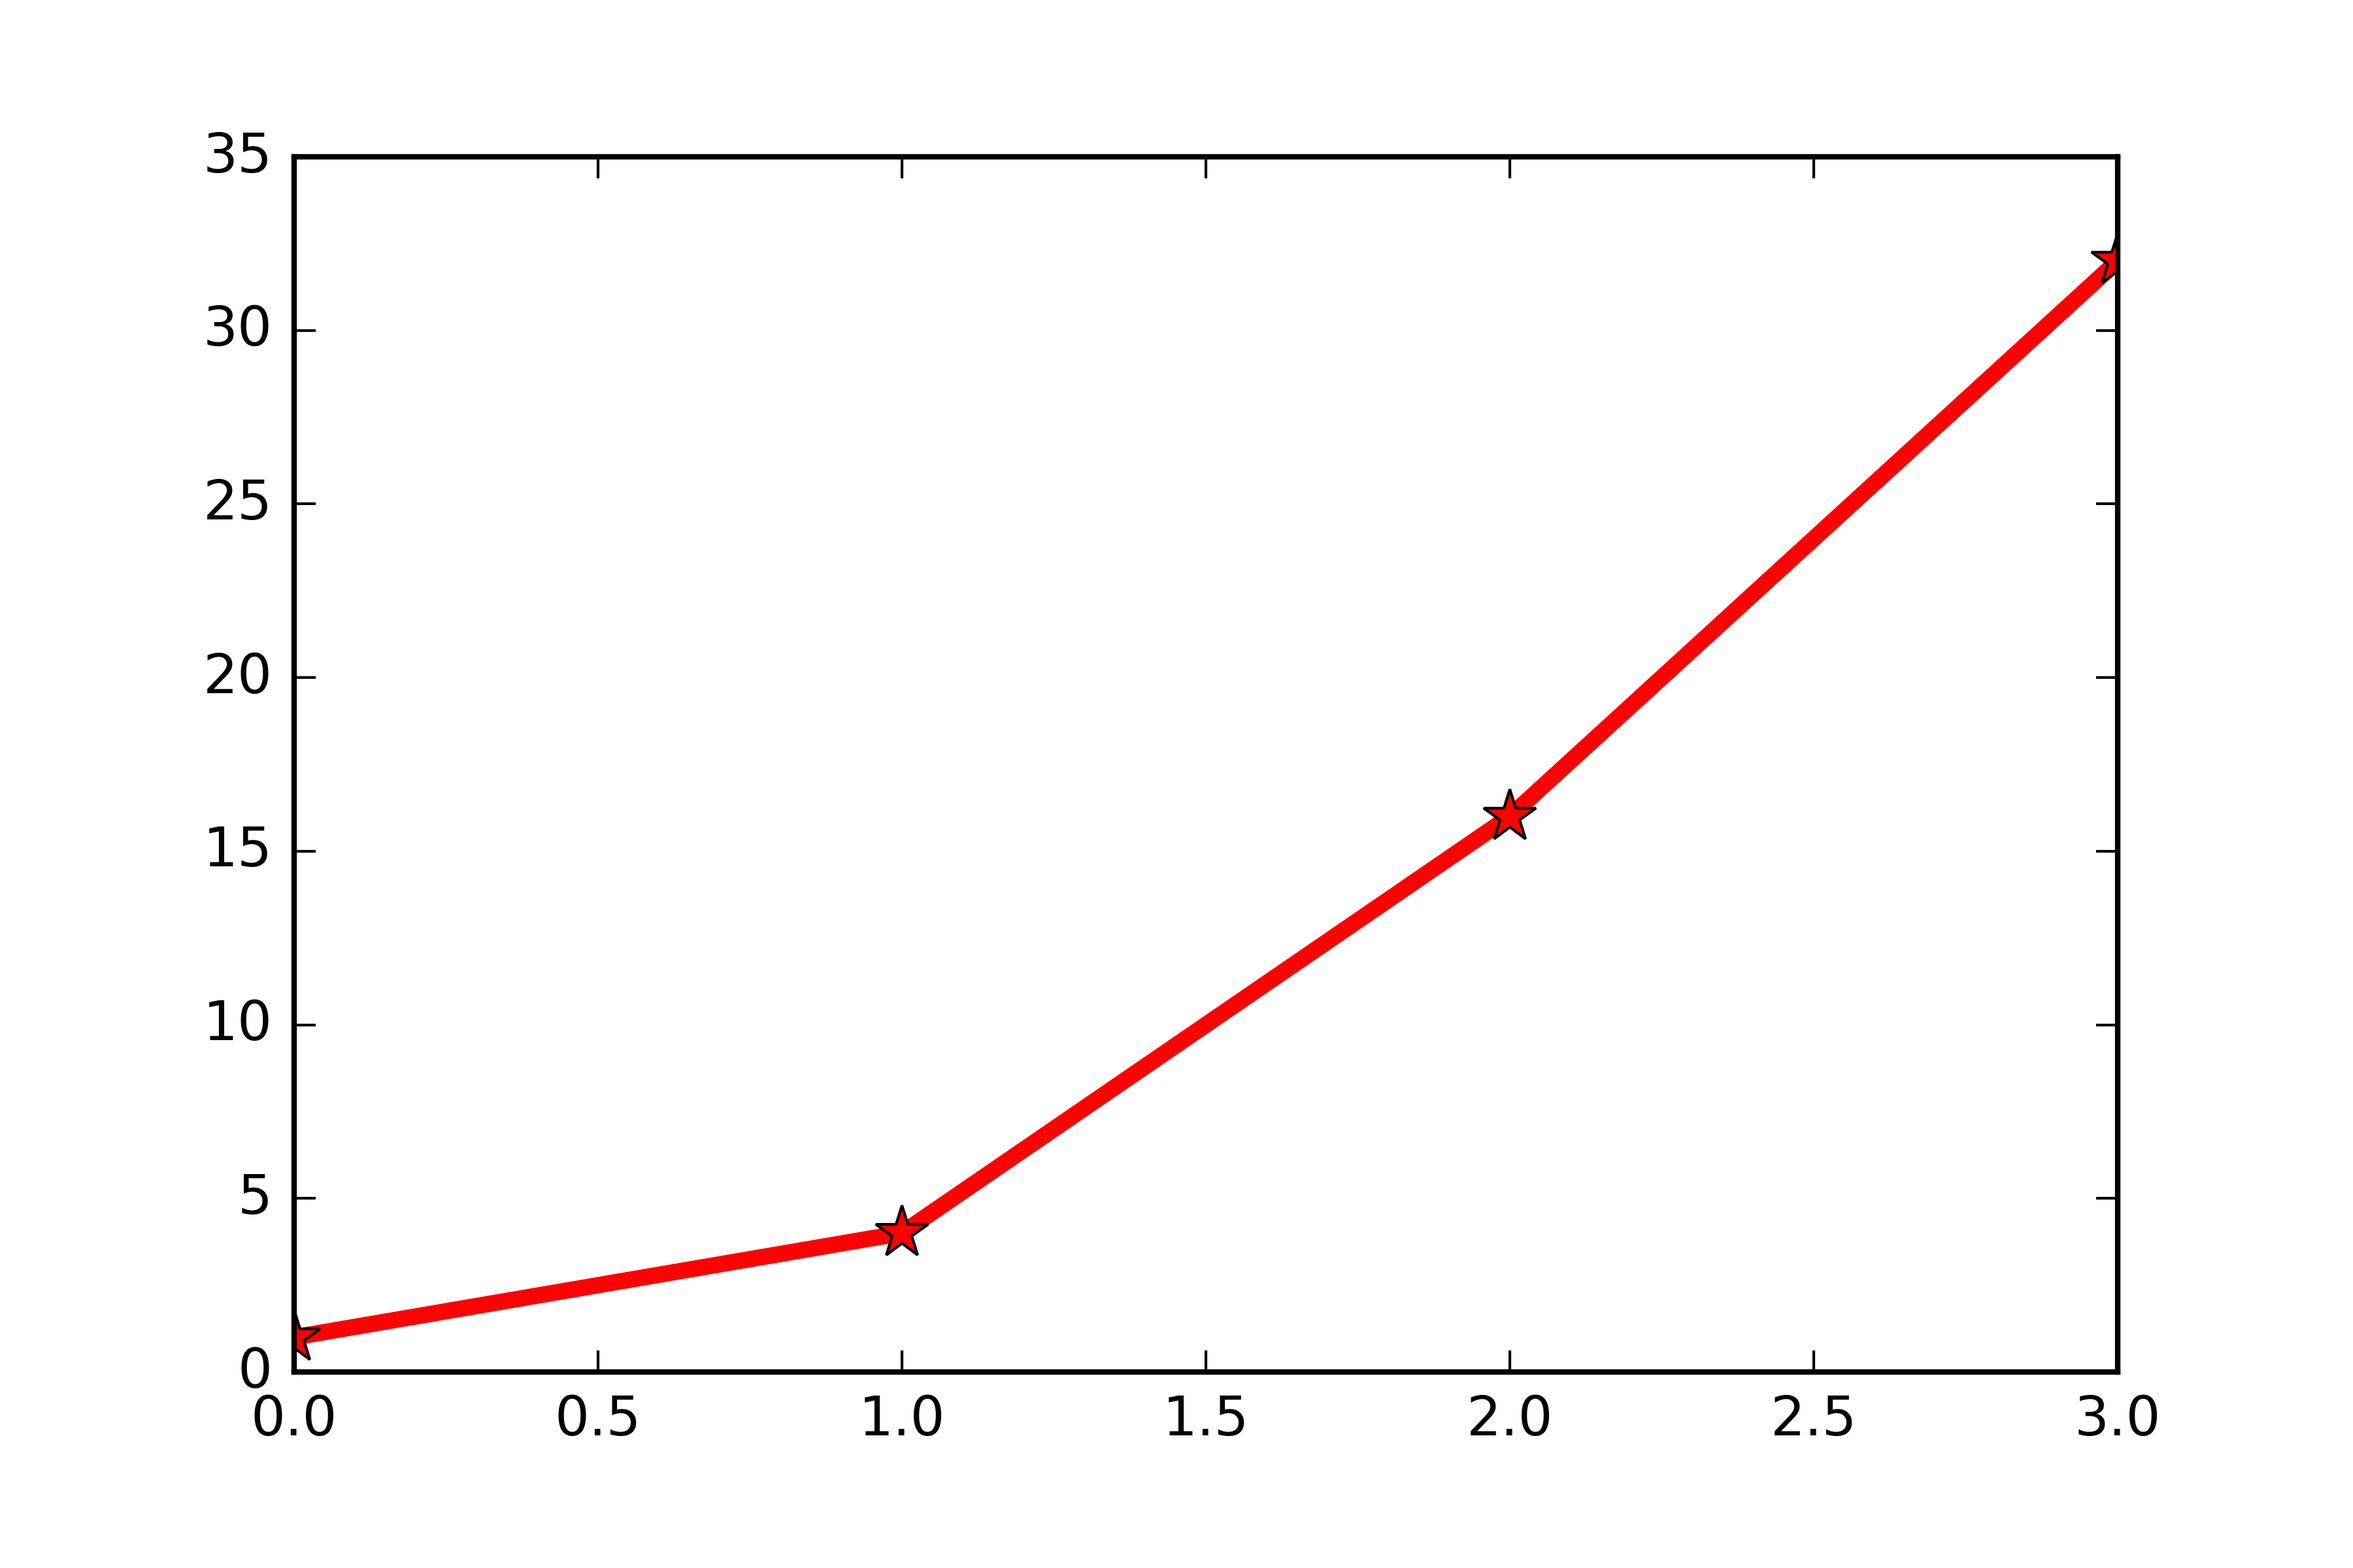
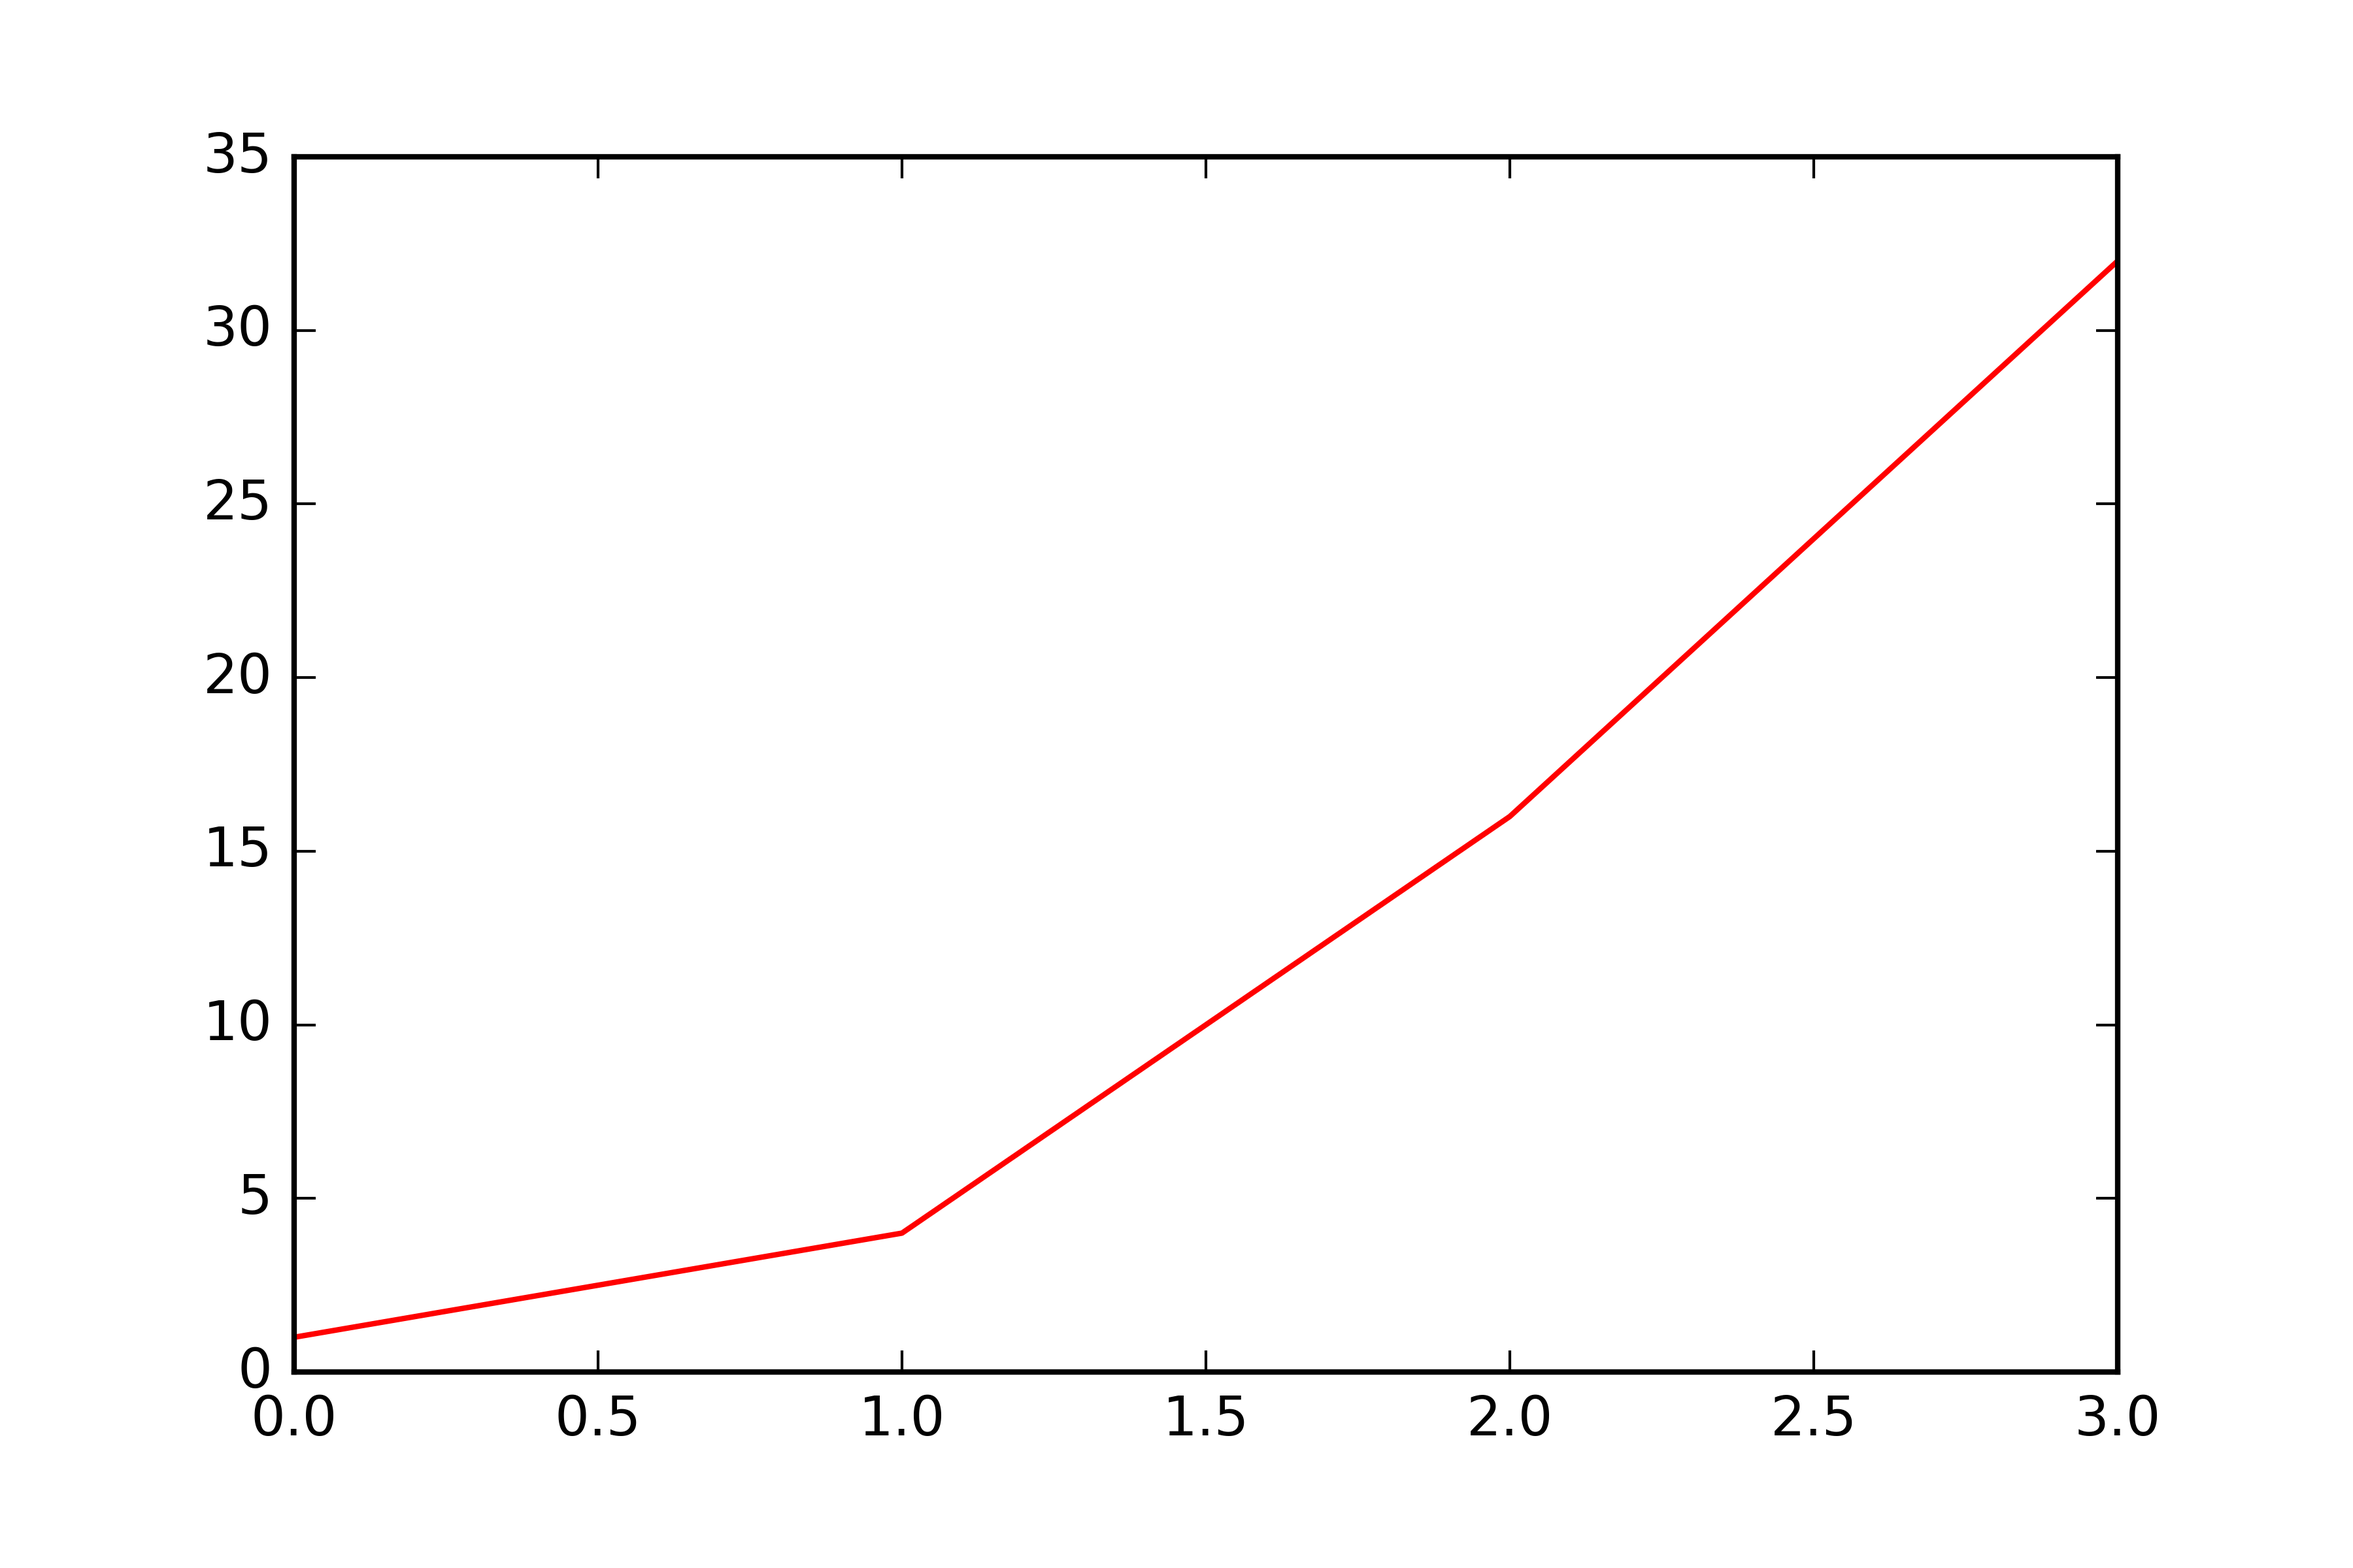
Python plotting corrections

diff --git a/Plotting_1D/Plotting_1D.py b/Plotting_1D/Plotting_1D.py
@@ -1,6 +1,7 @@
 # -*- coding: utf-8 -*-
 import matplotlib.pyplot as plt
 
+# Plotting Array Elements
 A = [1.0,4.0,16.0,32.0];
 plt.plot(A)
 plt.savefig('figures/Plotting_1D_I.py.png',dpi=600)
@@ -18,6 +19,7 @@ plt.plot(x,A)
 plt.savefig('figures/Plotting_1D_III.py.png',dpi=600)
 plt.show()
 
+# Annotation
 A = [1.0,4.0,16.0,32.0];
 x = [1.,2.,3.,4.];
 plt.plot(x,A)
@@ -28,11 +30,18 @@ plt.title('Experiment 1 results');
 plt.savefig('figures/Plotting_1D_IV.py.png',dpi=600)
 plt.show()
 
+# Line Color
+A = [1.0,4.0,16.0,32.0];
+plt.plot(A,'r')
+plt.savefig('figures/Plotting_1D_VI.py.png',dpi=600)
+plt.show()
+
 A = [1.0,4.0,16.0,32.0];
 plt.plot(A,color=[0.5,0.5,0.5])
 plt.savefig('figures/Plotting_1D_V.py.png',dpi=600)
 plt.show()
 
+# Marker Style
 A = [1.0,4.0,16.0,32.0];
 plt.plot(A,'*')
 plt.savefig('figures/Plotting_1D_VI.py.png',dpi=600)
@@ -48,6 +57,7 @@ plt.plot(A,'*',markersize=10)
 plt.savefig('figures/Plotting_1D_VIII.py.png',dpi=600)
 plt.show()
 
+# Line Style
 A = [1.0,4.0,16.0,32.0];
 plt.plot(A,'-',linewidth=5)
 plt.savefig('figures/Plotting_1D_IX.py.png',dpi=600)
@@ -58,17 +68,30 @@ plt.plot(A,'r-')
 plt.savefig('figures/Plotting_1D_X.py.png',dpi=600)
 plt.show()
 
+# Style Combinations
 A = [1.0,4.0,16.0,32.0];
-plt.plot(A,'r*-', linewidth=3,markersize=10)
+plt.plot(A,'r-')
 plt.savefig('figures/Plotting_1D_XI.py.png',dpi=600)
 plt.show()
 
+A = [1.0,4.0,16.0,32.0];
+plt.plot(A,'r*-')
+plt.savefig('figures/Plotting_1D_XII.py.png',dpi=600)
+plt.show()
+
+A = [1.0,4.0,16.0,32.0];
+plt.plot(A,'r*-', linewidth=3,markersize=10)
+plt.savefig('figures/Plotting_1D_XIII.py.png',dpi=600)
+plt.show()
+
+
+# Multiple Lines
 A = [1.0,4.0,16.0,32.0];
 B = [1.1,4.4,16.9,32.9];
 l1, = plt.plot(A,'b')
 l2, = plt.plot(B,'r')
 plt.legend(['A','B'])
-plt.savefig('figures/Plotting_1D_XII.py.png',dpi=600)
+plt.savefig('figures/Plotting_1D_XIV.py.png',dpi=600)
 plt.show()
 
 A = [1.0,4.0,16.0,32.0];
@@ -76,5 +99,5 @@ B = [1.1,4.4,16.9,32.9];
 l1, = plt.plot(A,'b')
 l2, = plt.plot(B,'r')
 plt.legend(['A','B'],loc='upper left')
-plt.savefig('figures/Plotting_1D_XIII.py.png',dpi=600)
+plt.savefig('figures/Plotting_1D_XV.py.png',dpi=600)
 plt.show()
